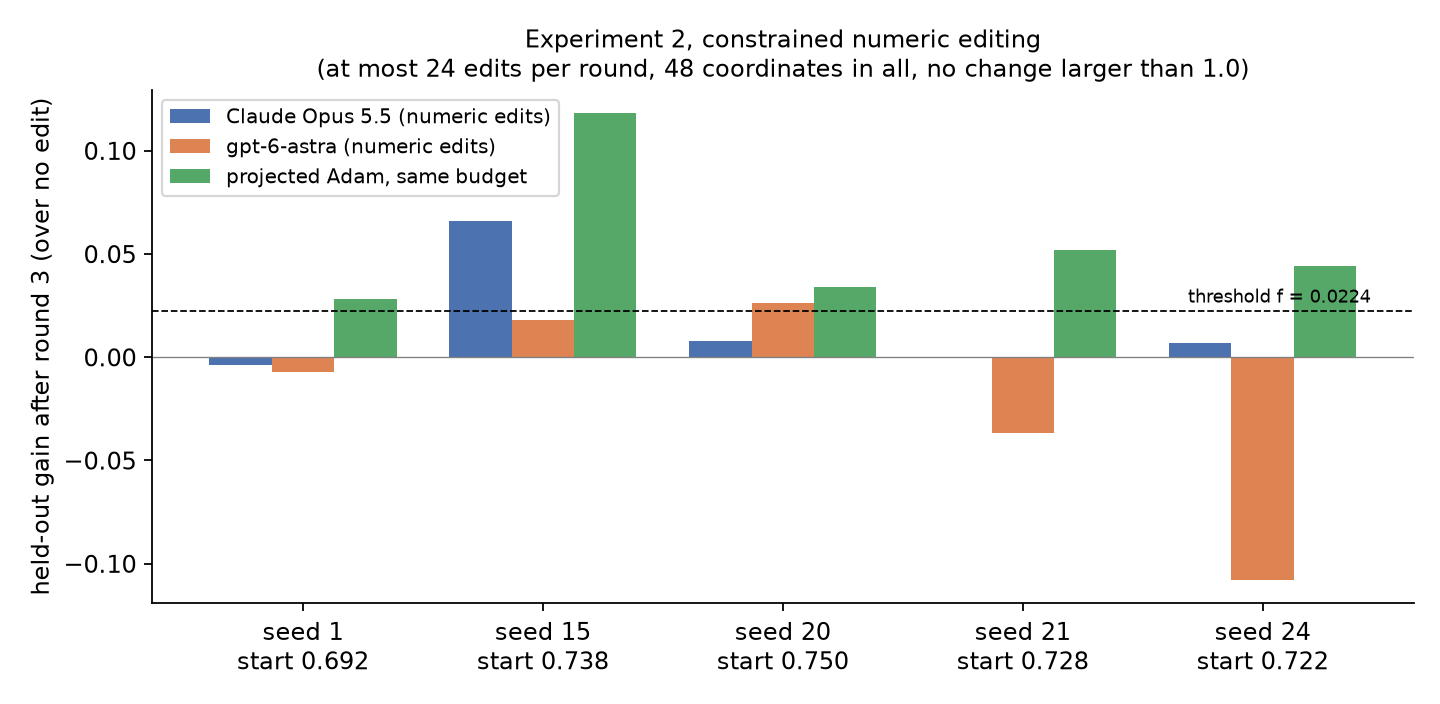
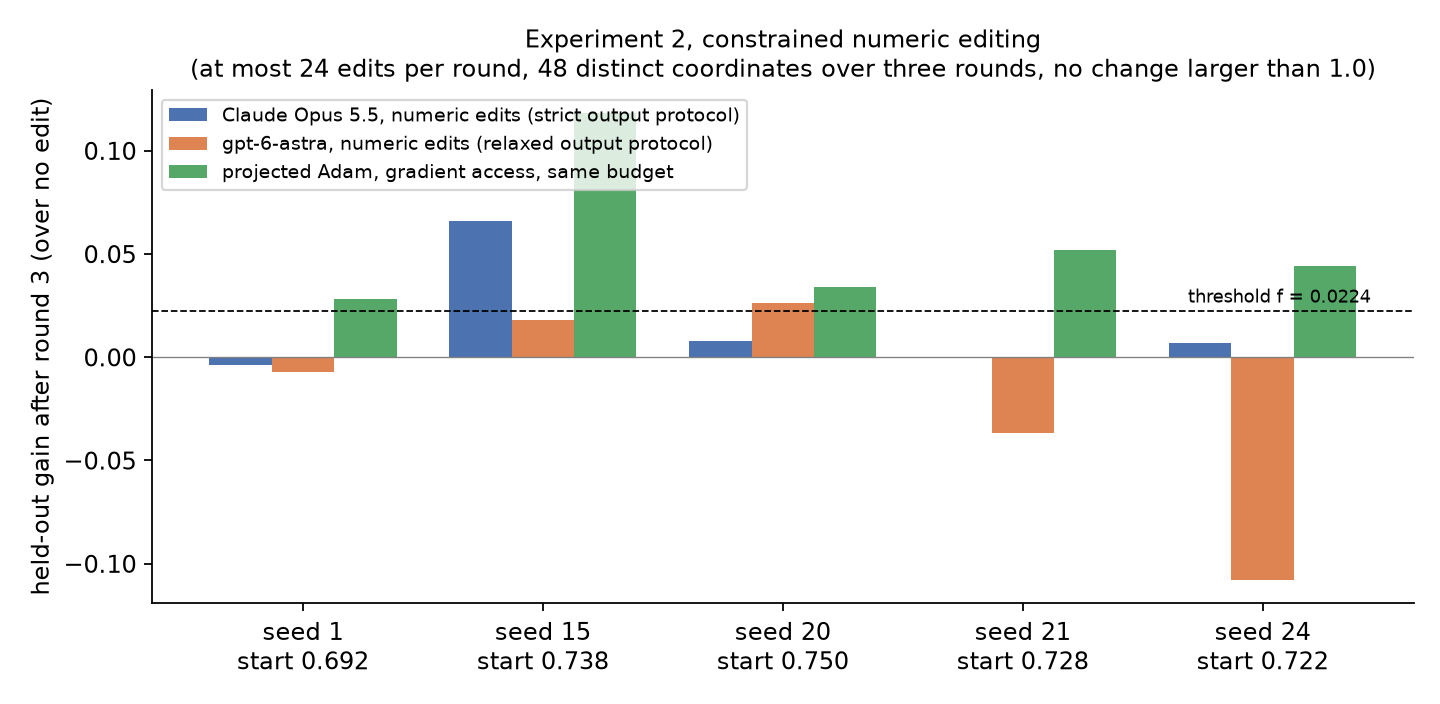
Results page: framing corrected to the evidence, visible captions, working figure script, rule hash

Changed region(s): [[0.0938, 0.1562, 0.5312, 0.2812], [0.125, 0.0625, 0.9688, 0.125]]

diff --git a/docs/make_figures.py b/docs/make_figures.py
@@ -15,7 +15,8 @@ def last_round(arm):
 def seed_row_from_record(path):
     d = json.load(open(path)); a = d["arms"]
     n = last_round(a["N"]); e = (last_round(a["E1"]) + last_round(a["E2"])) / 2; g = last_round(a["G"])
-    return {"seed": d["seed"], "D0": d["D0"], "gE": e - n, "gG": g - n}
+    d0 = d["D0"]["heldout"] if isinstance(d["D0"], dict) else d["D0"]
+    return {"seed": d["seed"], "D0": d0, "gE": e - n, "gG": g - n}
 
 def per_seed(path):
     d = json.load(open(path)); return {s["seed"]: s for s in d["outcome"]["seeds"] if s.get("status") == "ok"}
@@ -31,10 +32,10 @@ ax.text(0.2, 4.25, "What we asked for: repair", fontsize=12, fontweight="bold", 
 box(0.2, 2.9, 2.6, 0.9, "trained network\n(321 weights) + its mistakes", "#dbe5f3"); box(3.8, 2.9, 2.4, 0.9, "read the weights,\nfind the fault", "#dbe5f3"); box(7.2, 2.9, 2.6, 0.9, "patch a few numbers:\nthe same network, fixed", "#dbe5f3")
 arrow(2.85, 3.35, 3.75, 3.35); arrow(6.25, 3.35, 7.15, 3.35)
 ax.text(0.2, 2.25, "What both models did on the tested seed: reconstruction", fontsize=12, fontweight="bold", color="#C44E52")
-box(0.2, 0.8, 2.6, 0.9, "the labelled examples\n(32 to 40 strings, embedded literally)", "#f6dcdc", fs=9.5); box(3.8, 0.8, 2.4, 0.9, "the written program searches for\nthe smallest consistent automaton", "#f6dcdc", fs=9.5); box(7.2, 0.8, 2.6, 0.9, "and writes a brand-new network\nthat encodes it", "#f6dcdc", fs=9.5)
+box(0.2, 0.8, 2.6, 0.9, "the labelled examples, embedded literally\n(32 to 37 strings for Opus, 32 to 40 for astra)", "#f6dcdc", fs=9); box(3.8, 0.8, 2.4, 0.9, "the written program searches for\nthe smallest consistent automaton", "#f6dcdc", fs=9.5); box(7.2, 0.8, 2.6, 0.9, "and writes a brand-new network\nthat encodes it", "#f6dcdc", fs=9.5)
 arrow(2.85, 1.25, 3.75, 1.25); arrow(6.25, 1.25, 7.15, 1.25)
 ax.text(5, 0.25, "Accuracy reaches 1.000 in exactly the round in which the queried labels first identify the automaton (offline SAT check).", ha="center", fontsize=9.5, style="italic")
-ax.text(5, -0.05, "The supplied weights were overwritten, not patched. Same accuracy, different question answered.", ha="center", fontsize=9.5, style="italic")
+ax.text(5, -0.05, "The programs returned complete replacement weight arrays and took no supplied weights as input. Same accuracy, different procedure evaluated.", ha="center", fontsize=9.5, style="italic")
 fig.tight_layout(); fig.savefig(OUT + "fig0-reconstruction.png", dpi=160, bbox_inches="tight"); plt.close(fig)
 
 # Figure 1: construction pilot

diff --git a/docs/index.md b/docs/index.md
@@ -5,61 +5,69 @@ title: Can a language model repair a network's weights by reading them?
 
 **Short answer: not in our setting, and when it looked like it could, it was doing something else.**
 
-A trained neural network is a list of numbers. Language models read and write text, and numbers are text. So it is tempting to hand a model a small network's weights and its mistakes and ask it to fix the numbers directly, the way one patches code. We tested this under controlled conditions, with every decision rule written down before the first model call. Two findings matter.
+A trained neural network is a list of numbers. Language models read and write text, and numbers are text. So it is tempting to hand a model a small network's weights and its mistakes and ask it to fix the numbers directly, the way one patches code. We tested this under controlled conditions: the decision rules for each experiment were fixed before its model calls, and the two exceptions (a seed-set correction after the first run, and a secondary rerun specified afterwards and reported as descriptive) are documented in the released rules. Two findings matter.
 
-1. **Accuracy after an edit can be real and still not be repair.** Given a free hand, two different models took a failing network to perfect accuracy. Reading their work showed how: they solved the problem itself, inferring the hidden rule from the labelled examples, and then filled in weights that encode the answer. The supplied network was replaced, not fixed.
-2. **Held to small numeric edits, neither model repaired the network.** Under a budget that rules out rewriting, both models stayed within the pre-registered threshold on four of five seeds, while ordinary gradient descent, given exactly the same examples and budget, improved every seed.
+1. **Unconstrained construction can masquerade as repair.** On the one seed tested, two different models reached perfect accuracy in the query arms by writing a program that infers the hidden automaton from the labelled examples and compiles it into new weights. That is reconstruction, not evidence of repair.
+2. **Under the constrained-edit rule, neither model met the prespecified criterion.** Each model's mean gain over no edit was at or below the threshold of 0.0224 on four of five seeds. Projected Adam, which has gradient access, exceeded it on all five; the seeds had been selected for Adam's feasibility, and the budget excludes the measured rewrite route rather than every conceivable one.
 
-Paper: [extended abstract (PDF)](https://github.com/hamley241/wsp-harness-public/blob/main/paper/main.pdf). Code, frozen rules and complete records: [the repository](https://github.com/hamley241/wsp-harness-public). Everything below can be recomputed offline from those records.
+Paper: [extended abstract (PDF)](https://github.com/hamley241/wsp-harness-public/blob/main/paper/main.pdf). Code, decision rules (with their documented post-run amendments) and complete records: [the repository](https://github.com/hamley241/wsp-harness-public). Every number on this page can be recomputed offline from those records; the figures are produced by `docs/make_figures.py`.
 
 ## What the models actually did
 
 ![Repair as asked for, versus the reconstruction route both models took](assets/fig0-reconstruction.png)
 
-This is the part worth remembering. We asked for a repair: read the trained weights, find what is wrong, change a few numbers. What both models did instead was write a program that solves the underlying problem and then fills in weights. Those programs are in the records: they embed the labelled strings literally, search for the smallest automaton consistent with them, and write a fresh network that encodes that automaton. A SAT solver run offline confirms the timing: accuracy hits 1.000 in exactly the round in which the examples first identify the automaton uniquely, for both models and both query strategies. Before that round, accuracy stays at or near what the examples alone support.
+*Top: the route we asked for. Bottom: the route both models took on the tested seed, as read from the programs they wrote.*
 
-That is a real capability, and in a small setting an impressive one: inferring the rule from examples and hand-writing a network that implements it. But it means a perfect score told us nothing about the network the model was given. The supplied weights were overwritten, not patched: in a separate measurement, the written weights differed from the trained ones on all 321 coordinates. Any evaluation of weight editing that scores accuracy alone cannot tell these two routes apart.
+This is the part worth remembering. We asked for a repair: read the trained weights, find what is wrong, change a few numbers. What both models did instead was write a program that searches the labelled examples for the smallest consistent automaton and generates replacement weights. In plain terms, the program solves the problem and fills in weights; it does not read the weights it was given. Those programs are in the records: they embed the labelled strings literally, search for the smallest automaton consistent with them, and write a fresh network, with weights chosen to drive the units into saturation, that encodes it. An offline solver confirms the timing: in each query arm, accuracy reaches 1.000 in exactly the round in which the labels queried so far first identify a single automaton with at most six states, for both models and both query strategies. The model itself saw only the mistakes from each batch, not the full label set the solver checks. Before that round, accuracy stays at or near that of the solver's own consistent automaton.
+
+That is a real and impressive result in this small setting: the emitted programs implement induction from labelled examples and programmatic network construction. But it means a perfect score established nothing about the network the model was given. The programs returned complete replacement weight arrays and took no supplied weights as input; in a separate measurement, compiled weights differed from trained ones on all 321 coordinates.
 
 ## The setting
 
-- **Task.** Decide which binary strings belong to a hidden language defined by a six-state automaton. The correct answer is known exactly, so every claim can be checked.
+- **Task.** A small six-state rule machine, an automaton, reads a binary string one bit at a time and decides whether to accept it. Because the rule is known to the experimenter, every prediction can be scored exactly.
 - **Network.** A 16-unit recurrent network with 321 weights.
-- **What the model sees.** The weights as numbers, 32 labelled strings to start, and the network's current mistakes, over three rounds. It never gets to run the network.
-- **Comparison.** Doing nothing, and projected gradient descent given the same examples and the same edit budget.
-- **Measurement.** Accuracy on 500 held-out strings the model never sees, plus 200 longer ones. A gain counts only above a threshold of 0.0224, one standard error at chance, fixed in advance.
+- **Measurement.** Accuracy on 500 held-out strings never shown to any arm, plus 200 longer ones. A gain counts only above a threshold of 0.0224, one standard error of an accuracy at chance with 500 strings, fixed in advance.
+- **Experiment 1.** Each model saw its previous constructor program, 32 initial labels and the counterexamples from each query batch, and wrote a new program returning the weights; it could not run the network. Three arms per model, one seed.
+- **Experiment 2.** Each model saw the numeric weights, all labels so far and the current counterexamples, and could only list numeric edits within a fixed budget; it could not run the network. Compared with doing nothing and with projected Adam under the same budget, on five seeds. A seed is one random choice of hidden automaton, training labels and starting network.
 
 ## Experiment 1: a free hand, and what the accuracy hid
 
 ![Per-round held-out accuracy for three construction arms, two models](assets/fig1-construction.png)
 
-Both models were allowed to write the network however they liked, as a program that outputs the weights. With queries that bring in new labelled strings, accuracy jumps to 1.000 in exactly the round in which the accumulated labels pin down the automaton uniquely, as checked offline by a SAT solver. Without new labels, nothing improves. The written programs embed the labelled examples literally, search for the smallest consistent automaton, and compile it into weights. That is reconstruction from examples. It is impressive, and it is not repair.
+*Held-out accuracy by round for one seed. Arms: queries chosen by a second model call, random queries, and self-refinement with no new labels. The annotation marks the first round in which the queried labels identify the automaton uniquely among automata with at most six states, as checked offline; the model did not see that full label set.*
+
+With queries that bring in new labelled strings, accuracy jumps to 1.000 in exactly that round. Without new labels nothing durable happens: the Opus arm stays flat and then collapses to 0.500, and the astra arm rises briefly from 0.890 to 0.924 before returning to 0.890.
 
 ## Experiment 2: small edits only
 
 ![Per-seed held-out gain for two models and projected Adam under the same budget](assets/fig2-editing.png)
 
-Now the model may change at most 24 numbers per round, 48 in total, none by more than 1.0 from its trained value. This budget excludes the rewrite route measured in Experiment 1. Both models received the frozen outcome *no repair*: at or below threshold on four of five seeds. Projected Adam under the identical budget cleared the threshold on every seed. The models' own notes say they could not simulate the network in their heads and were guessing.
+*Gain after round 3 over no edit, averaged over two editor runs per seed. Opus used the primary strict output protocol and astra the relaxed one; projected Adam had gradient access; the five seeds were selected for projected-Adam feasibility.*
+
+Now the model may change at most 24 numbers per round, 48 distinct coordinates over the three rounds, none by more than 1.0 from its trained value. This budget excludes the rewrite route measured in Experiment 1. Under the study's rule an editor reads *no repair* when its mean gain over no edit is at most 0.0224 on at least four of five seeds; it does not mean no seed improved. Both models read *no repair*. Projected Adam under the identical budget cleared the threshold on every seed. Among the Opus attempts that were rejected for format, several notes say the model could not simulate the network and was estimating.
 
 ## Follow-up: is the budget simply too tight for anything without gradients?
 
 ![Seeds repaired versus evaluations per round for three black-box searches](assets/fig3-search.png)
 
-On four separate development seeds, two sparse black-box searches with forward-pass access only, under the same budget, failed a 3-of-4 criterion even at 10,000 objective evaluations per round. A dense evolution strategy that ignores the sparsity constraint did no better. So the budget is demanding without gradients; that bounds how much the negative result says about any particular editor.
+*Four development seeds disjoint from Experiment 2. The two sparse searches obey the 24/48/1.0 budget; the dense evolution strategy ignores the sparsity constraint and is shown for comparison only.*
+
+Two sparse black-box searches with forward-pass access only failed a 3-of-4 criterion at 100, 1,000 and 10,000 objective evaluations per round; the best reached 2 of 4 at 10,000, and the dense strategy tied it there. Projected Adam itself cleared the threshold on only one of these four seeds. These searches show that the tested forward-pass-only methods struggled under these constraints; they do not bound what an editor with execution access could do.
 
 ## What this does and does not show
 
-It shows that in this setting, with weights presented as numbers and no execution access, two current models did not repair the network, and that the unconstrained successes came from rebuilding it from the examples. It does not show that language models cannot repair weights in general: one task, one architecture, five seeds, two models, one budget.
+Experiment 2 found that neither tested editor met the prespecified five-seed criterion. That result is conditional on seeds chosen for comparator feasibility, on different output protocols for the two models, on one task, one architecture, one budget, and on no execution access. Experiment 1 is a separate one-seed construction study. Neither shows anything about language models and weights in general.
 
-The practical lesson is for anyone evaluating a claim that a language model edited a network's weights. When the labelled examples could identify the target function on their own, report what the model changed, how much, and by what route, and include a labels-only reconstruction baseline. Accuracy alone cannot tell repair from reconstruction.
+The practical lesson is for anyone evaluating a claim that a language model edited a network's weights. When the labelled examples and the stated task assumptions may suffice to reconstruct a solution, report the size and route of the change and compare against a labels-only reconstruction baseline. Held-out accuracy alone does not distinguish a local repair from a replacement.
 
 ## What is next
 
-A controlled re-evaluation of a published one-shot weight-repair demonstration on a different task is in preparation, under a rule frozen before its first model call. It is a design, not a result, until its model arms have run; nothing from it is claimed on this page.
[1 lines of base64/hex data omitted]
 
 ## How to check any number here
 
-Every record, every model attempt, every charged query and every spend ledger is in the repository. The README lists the offline commands that regenerate each analysis from the raw records.
+Every record, every model attempt, every charged query and every spend ledger is in the repository. The README lists the offline commands that regenerate each analysis from the raw records, and `docs/make_figures.py` regenerates the figures.
 
 ## Citing
 
-Please cite the extended abstract in the repository's `paper/` directory, and link this page. The repository was published on 2026-11-07; the experiments were run on 2026-11-04 and 2026-11-05.
+Please cite the extended abstract in the repository's `paper/` directory and link this page. Experiments ran on 2026-11-04 and 2026-11-05; the repository was released on 2026-11-06 Pacific time (2026-11-07 UTC).
